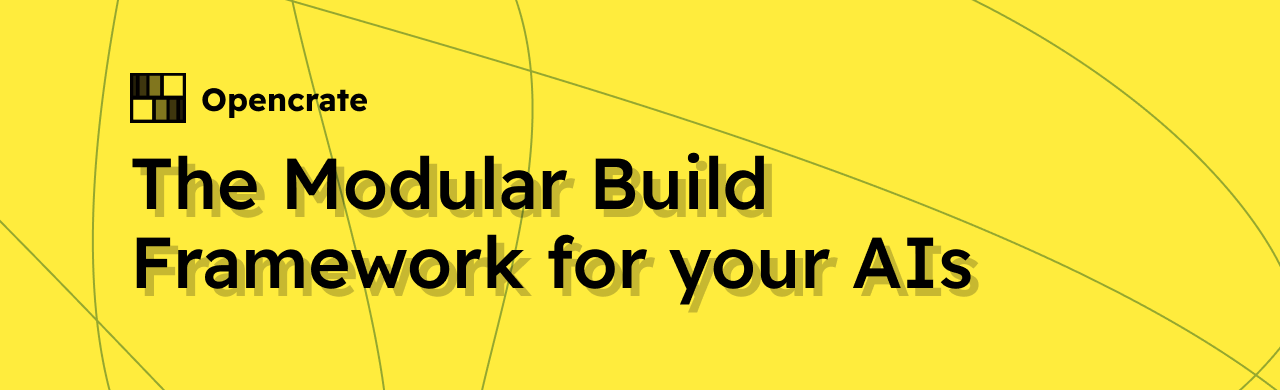
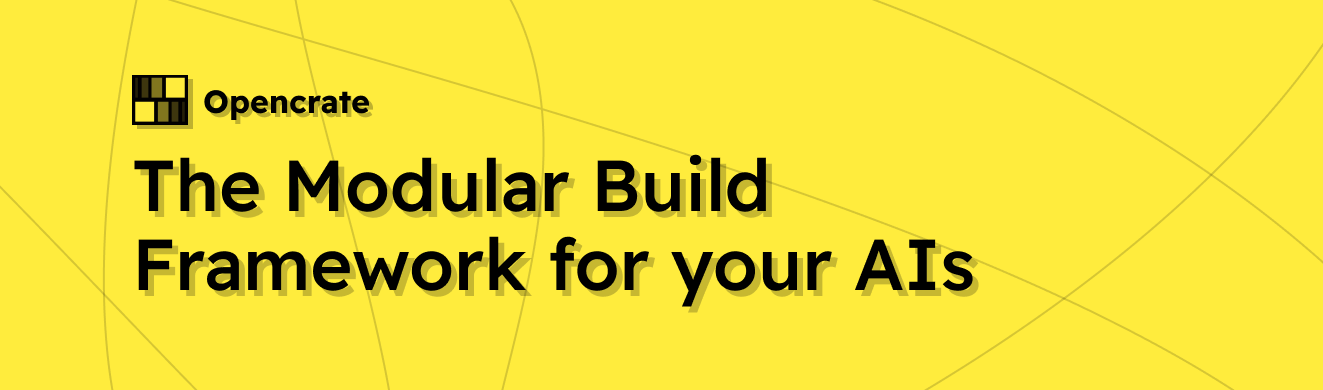
docs: update landing page styling

diff --git a/docs/index.md b/docs/index.md
@@ -4,12 +4,13 @@ hide:
   - toc
 ---
 
-# __Welcome to OpenCrate!__
+<style>
+  .md-content__inner h1 { display: none; }
+</style>
 
 <div align="center" markdown="1">
 <img src="assets/wallpaper.png" id="wallpaper" alt="OpenCrate Wallpaper"/>
-<b>True plug-and-play interoperability for orchestrating AI workflows.</b>
-<br>
+<p>True plug-and-play interoperability for orchestrating AI workflows.</p>
 
 ![GitHub Actions Workflow Status](https://img.shields.io/github/actions/workflow/status/OpenCrateAI/opencrate/release-pypi.yml?style=flat-square&logo=python&logoColor=%23fff)
 ![PyPI - Version](https://img.shields.io/pypi/v/opencrate?style=flat-square&logo=python&logoColor=%23fff)
@@ -17,13 +18,9 @@ hide:
 ![PyPI - Python Version](https://img.shields.io/pypi/pyversions/opencrate?style=flat-square&logo=python&logoColor=%23fff)
 </div>
 
----
-
-## What is OpenCrate?
-
 Tired of wrestling with dependencies, container configurations, and all the other "yak shaving" that gets in the way of actual AI development? So were we. That's why we built **OpenCrate**, your new best friend for accelerating the end-to-end AI development lifecycle.
 
-OpenCrate streamlines AI-specific workflows, handles container orchestration like a champ, and ensures seamless integration across any environment-all while keeping you blissfully unaware of dependency hell.
+OpenCrate streamlines AI-specific workflows, handles container orchestration like a champ, and ensures seamless integration "across any environment" while keeping you blissfully unaware of dependency hell.
 
 In short, we handle the grunt work so you can focus on what truly matters: **making that loss curve go down.**
 
@@ -48,3 +45,7 @@ Ready to dive in? It's as easy as pie (the delicious, non-mathematical kind).
 2.  **Check out the Guides**: Our [Guides](guides/1_artifacts_logging_reproducible_workflows.ipynb) provide hands-on examples to get you up and running in no time.
 
 Happy coding, and may your models always converge!
+
+<br>
+<br>
+<br>
